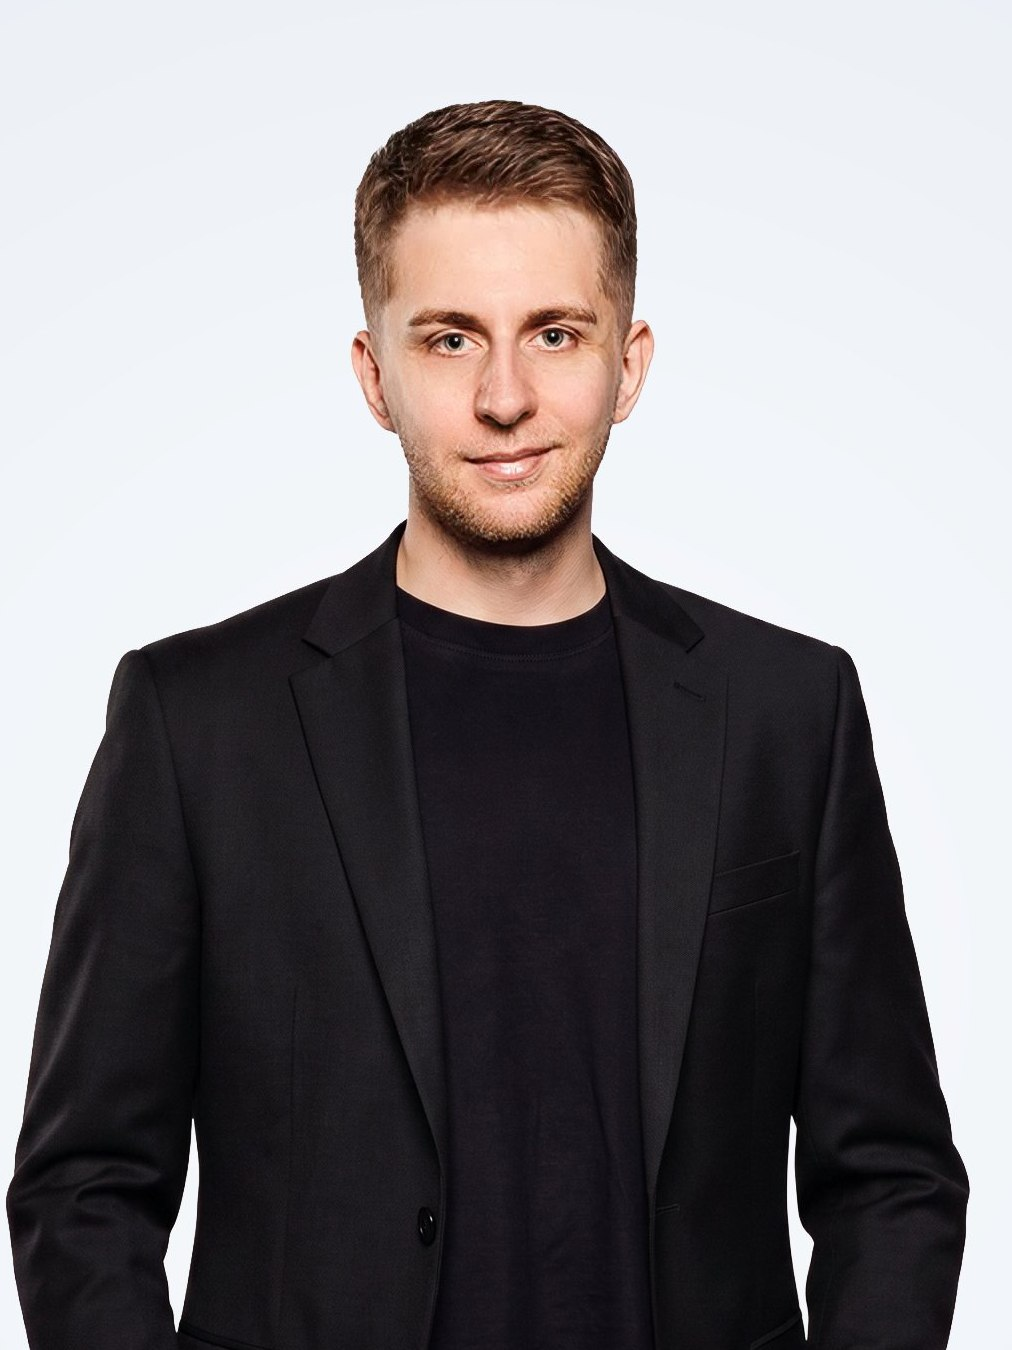
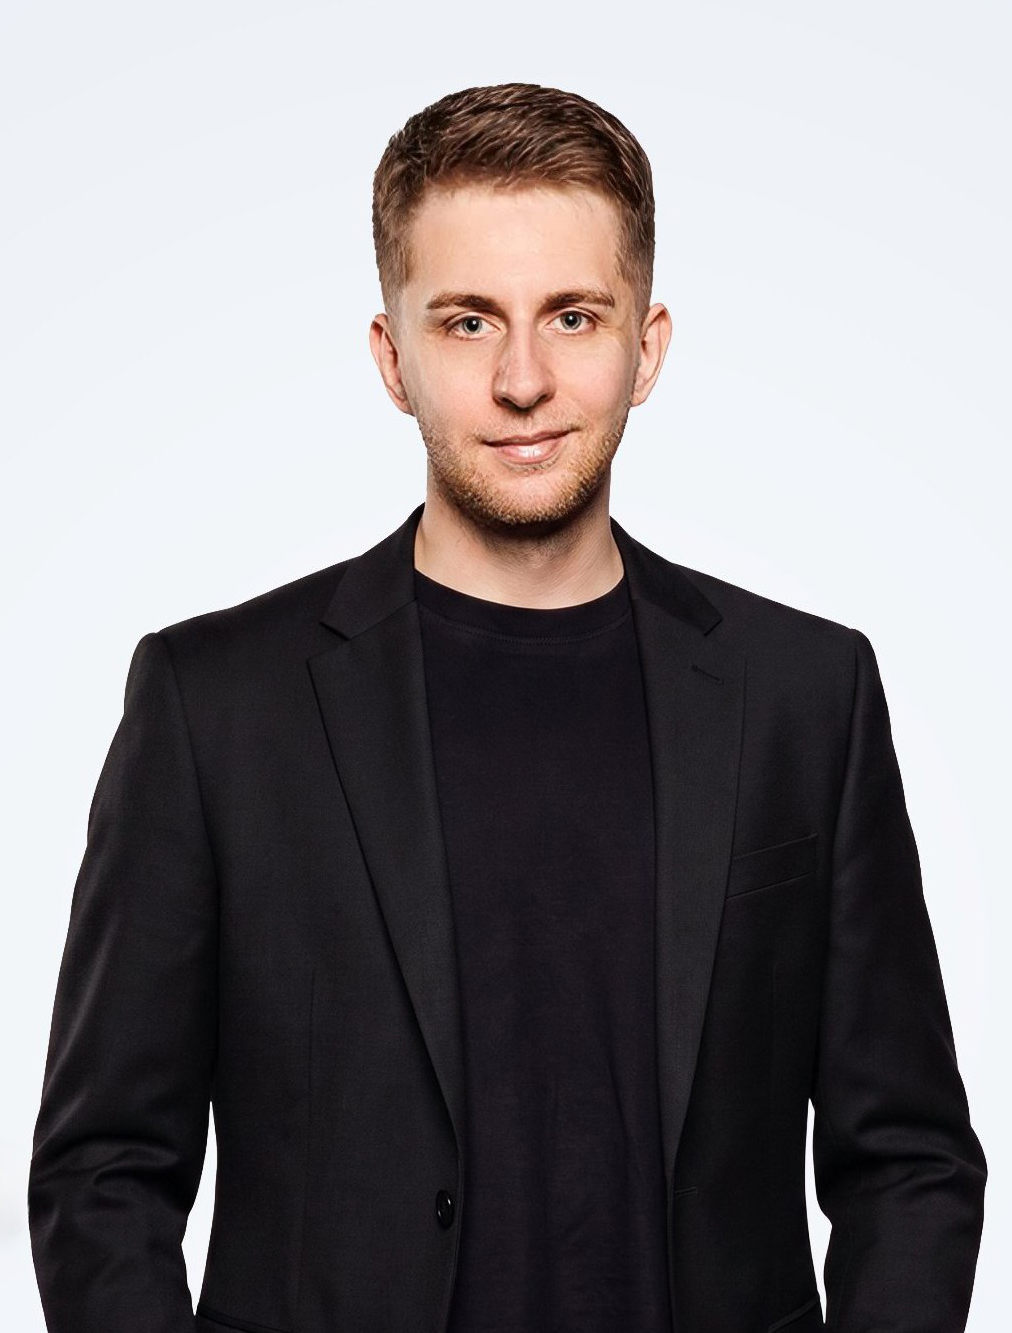
fix: jasny tryb dla stopki, hero tylko jasne zdjecie

diff --git a/src/components/Footer.tsx b/src/components/Footer.tsx
@@ -10,11 +10,11 @@ export default function Footer() {
 
   return (
     <footer className="px-4 pb-8">
-      <div className="max-w-6xl mx-auto bg-navy dark:bg-dark-card dark:border dark:border-dark-border rounded-[20px] px-8 py-10 md:px-12 md:py-14">
+      <div className="max-w-6xl mx-auto bg-white border border-border dark:bg-dark-card dark:border-dark-border rounded-[20px] px-8 py-10 md:px-12 md:py-14">
         <div className="grid grid-cols-2 md:grid-cols-4 gap-8">
           {/* Brand */}
           <div className="col-span-2 md:col-span-1">
-            <div className="font-barlow font-extrabold text-sm tracking-wide text-white mb-2">
+            <div className="font-barlow font-extrabold text-sm tracking-wide text-navy dark:text-white mb-2">
               MARCIN SZABUNIA
             </div>
             <p className="text-xs text-steel">
@@ -24,7 +24,7 @@ export default function Footer() {
           </div>
 
           {/* Navigation */}
-          <div className="flex flex-col gap-1.5 text-xs text-steel-light">
+          <div className="flex flex-col gap-1.5 text-xs text-steel dark:text-steel-light">
             {[
               { label: "O mnie", href: "/#o-mnie" },
               { label: "Usługi", href: "/#uslugi" },
@@ -39,7 +39,7 @@ export default function Footer() {
               <a
                 key={link.label}
                 href={link.href}
-                className="hover:text-white transition-colors"
+                className="hover:text-navy dark:hover:text-white transition-colors"
               >
                 {link.label}
               </a>
@@ -47,16 +47,16 @@ export default function Footer() {
           </div>
 
           {/* Contact & Social */}
-          <div className="flex flex-col gap-1.5 text-xs text-steel-light">
+          <div className="flex flex-col gap-1.5 text-xs text-steel dark:text-steel-light">
             <a
               href="tel:+48514900688"
-              className="hover:text-white transition-colors"
+              className="hover:text-navy dark:hover:text-white transition-colors"
             >
               +48 514 900 688
             </a>
             <a
               href="mailto:[email redacted]"
-              className="hover:text-white transition-colors"
+              className="hover:text-navy dark:hover:text-white transition-colors"
             >
               [email redacted]
             </a>
@@ -64,7 +64,7 @@ export default function Footer() {
               href="https://instagram.com/szabunia.biz"
               target="_blank"
               rel="noopener noreferrer"
-              className="hover:text-white transition-colors"
+              className="hover:text-navy dark:hover:text-white transition-colors"
             >
               Instagram
             </a>
@@ -74,7 +74,7 @@ export default function Footer() {
           <div className="flex items-start justify-end col-span-2 md:col-span-1">
             <button
               onClick={scrollToTop}
-              className="w-10 h-10 rounded-xl border border-navy-light dark:border-dark-border flex items-center justify-center text-steel-light hover:text-white hover:border-white/30 transition-all"
+              className="w-10 h-10 rounded-xl border border-border dark:border-dark-border flex items-center justify-center text-steel dark:text-steel-light hover:text-navy dark:hover:text-white hover:border-blue dark:hover:border-white/30 transition-all"
               aria-label="Przewiń do góry"
             >
               <svg
@@ -94,14 +94,14 @@ export default function Footer() {
           </div>
         </div>
 
-        <div className="border-t border-navy-light dark:border-dark-border mt-8 pt-5 flex flex-col sm:flex-row items-center justify-between gap-2 text-[11px] text-steel">
+        <div className="border-t border-border dark:border-dark-border mt-8 pt-5 flex flex-col sm:flex-row items-center justify-between gap-2 text-[11px] text-steel dark:text-dark-text-muted">
           <span>
             © {new Date().getFullYear()} Marcin Szabunia. Wszelkie prawa
             zastrzeżone.
           </span>
           <a
             href="/polityka-prywatnosci"
-            className="hover:text-white transition-colors"
+            className="hover:text-navy dark:hover:text-white transition-colors"
           >
             Polityka prywatności
           </a>

diff --git a/src/components/Hero.tsx b/src/components/Hero.tsx
@@ -73,28 +73,16 @@ export default function Hero() {
         >
           <Parallax distance={PARALLAX.subtle} direction="up">
             <div className="w-full aspect-[3/4] rounded-3xl overflow-hidden bg-border dark:bg-dark-card relative">
-              {/* Dwa warianty hero: jasny i ciemny gradient, przełączane motywem (.dark) */}
               <Image
                 src="/images/marcin-hero-light-2.jpg"
                 alt="Marcin Szabunia, fotograf biznesowy i twórca wideo, Poznań"
                 fill
-                className="object-cover object-top dark:hidden"
+                className="object-cover object-top"
                 priority
                 sizes="(max-width: 768px) 100vw, 40vw"
                 quality={85}
                 placeholder="blur"
[1 lines of base64/hex data omitted]
-              />
-              <Image
-                src="/images/marcin-hero-dark-2.jpg"
-                alt="Marcin Szabunia, fotograf biznesowy i twórca wideo, Poznań"
-                fill
-                className="object-cover object-top hidden dark:block"
-                priority
-                sizes="(max-width: 768px) 100vw, 40vw"
-                quality={85}
-                placeholder="blur"
[1 lines of base64/hex data omitted]
               />
             </div>
           </Parallax>